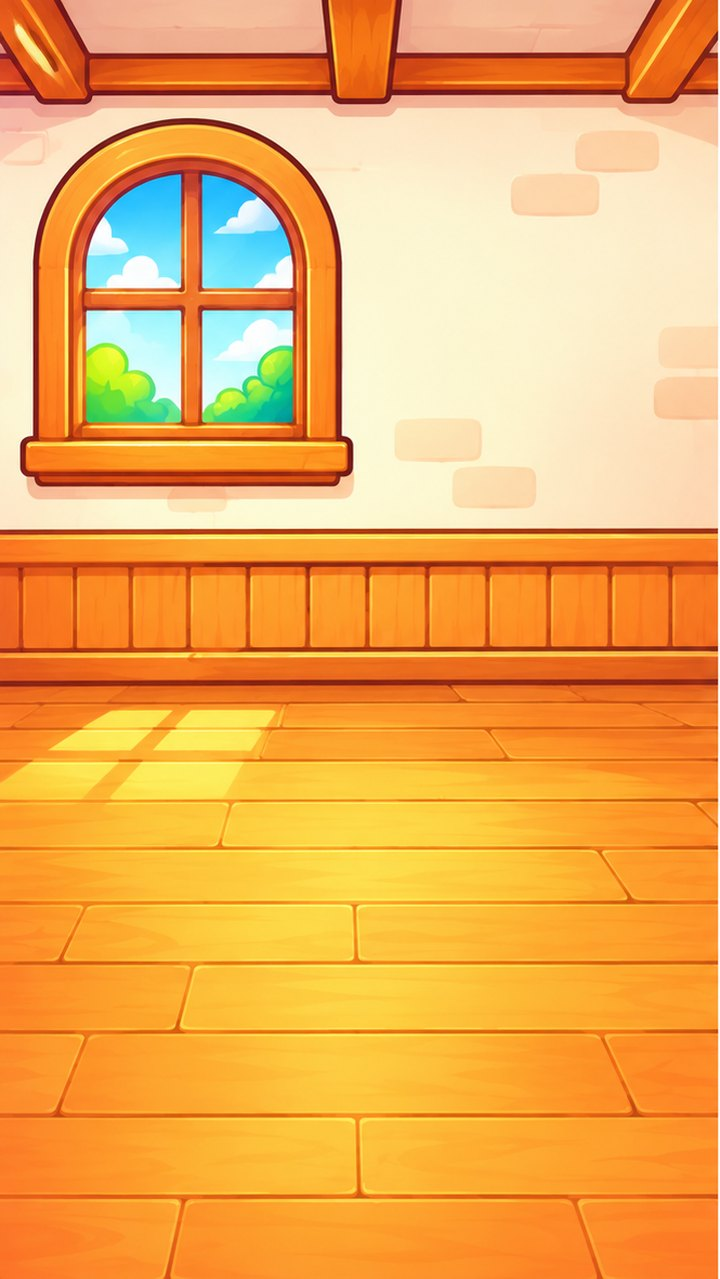
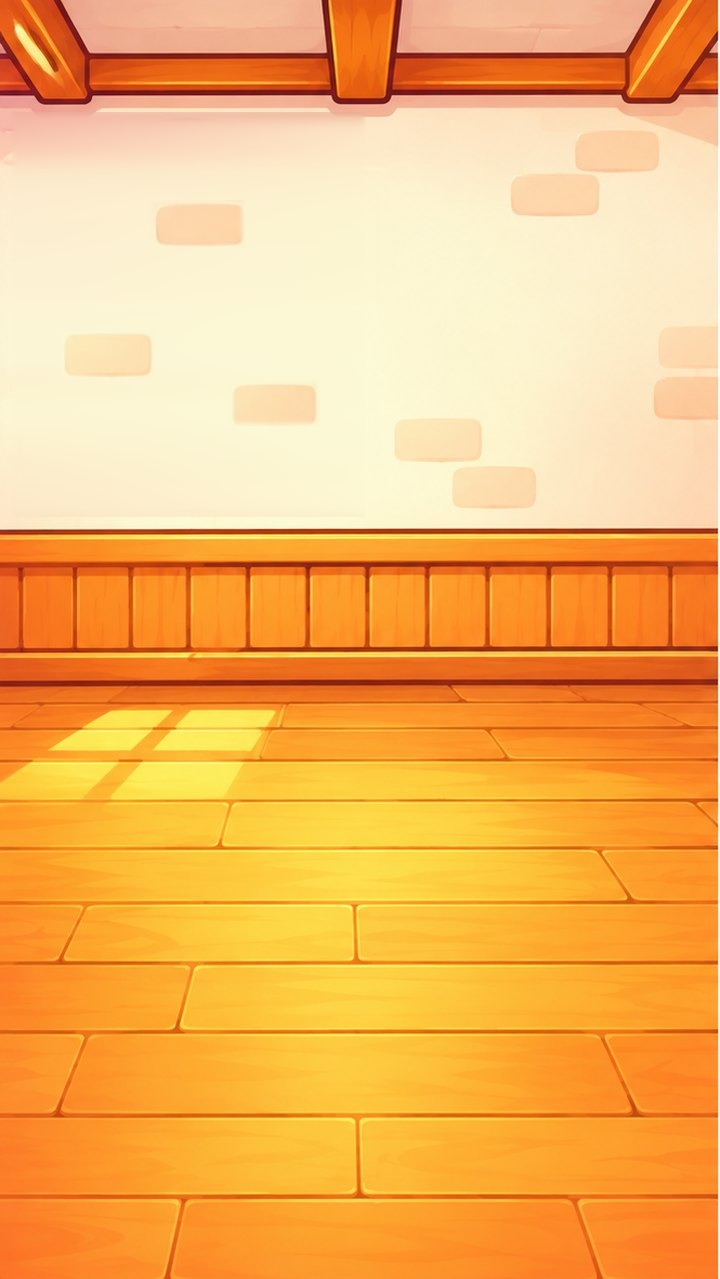
Café: hall background without the painted window; decor placed by kind (wall, ceiling, floor) per variant so lamps hang from the ceiling and furniture stands on the floor; ?reset clears itself from the URL
Claude-Session: https://claude.ai/code/session_0183AWkuzyGnGmi9RjTHJkGU

Changed region(s): [[0.0306, 0.061, 0.4889, 0.3964]]

diff --git a/src/game/cafeLayout.ts b/src/game/cafeLayout.ts
@@ -2,50 +2,48 @@ import { CAFE_SLOTS } from '../core/content';
 
 /**
  * Café screen layout (pure data, no Phaser) so tests can check that tappable things never overlap.
- * Coordinates are in the 720×1280 game space. Room art covers y 160..1120; the floor starts at
- * y≈870 in the hall art and y≈810 in the attic.
+ * Coordinates are in the 720×1280 game space; the room art fills it 1:1. Hall: ceiling beam ends at
+ * y≈100, wall to y≈525, wainscot to y≈690, then floor. Attic: wall triangle under the roof slopes
+ * (apex ≈ 240,115; right slope ≈ y = 115 + 0.74·(x − 240)), baseboard ≈ 630..680, then floor.
  */
 export type Rect = { x: number; y: number; w: number; h: number };
 export type Slot = (typeof CAFE_SLOTS)[number];
+/** floor: art stands on the bottom edge; ceiling: hangs from the top edge; wall: centered */
+export type Anchor = 'floor' | 'ceiling' | 'wall';
+export type Place = Rect & { anchor: Anchor };
 
-/** Where each decor piece is drawn (art is fitted into the rect). */
-export const SLOT_RECT: Record<Slot, Rect>[] = [
-  { // hall: classic front room
-    window: { x: 360, y: 440, w: 280, h: 230 },
-    lamp: { x: 95, y: 745, w: 140, h: 390 },
-    post: { x: 630, y: 790, w: 140, h: 300 },
-    sofa: { x: 245, y: 870, w: 360, h: 200 },
-    counter: { x: 480, y: 935, w: 300, h: 180 },
+const P = (x: number, y: number, w: number, h: number, anchor: Anchor): Place => ({ x, y, w, h, anchor });
+/** box from its bottom edge (things standing on the floor) */
+const onFloor = (x: number, bottom: number, w: number, h: number) => P(x, bottom - h / 2, w, h, 'floor');
+/** box from its top edge (things hanging from the ceiling) */
+const hanging = (x: number, top: number, w: number, h: number) => P(x, top + h / 2, w, h, 'ceiling');
+
+/**
+ * Where each decor piece goes, per room and slot; one entry per variant when variants differ in kind
+ * (a ceiling pendant and a floor lamp cannot share a spot). The art is fitted into the box.
+ */
+export const PLACES: Record<Slot, Place[]>[] = [
+  { // hall
+    window: [P(500, 385, 270, 270, 'wall')],
+    lamp: [hanging(215, 100, 200, 230), onFloor(78, 790, 130, 340), onFloor(78, 790, 130, 200)],
+    post: [onFloor(620, 850, 190, 330)],
+    sofa: [onFloor(310, 900, 330, 230)],
+    counter: [onFloor(520, 1090, 330, 190)],
   },
-  { // attic: dormer on the right, pendant lantern under the beam, wall shelves, armchair, bar
-    window: { x: 500, y: 430, w: 220, h: 230 },
-    lamp: { x: 230, y: 360, w: 100, h: 230 },
-    post: { x: 150, y: 580, w: 170, h: 190 },
-    sofa: { x: 530, y: 860, w: 280, h: 210 },
-    counter: { x: 290, y: 930, w: 340, h: 180 },
+  { // attic
+    window: [P(220, 430, 240, 240, 'wall')],
+    lamp: [hanging(450, 290, 160, 200), hanging(450, 285, 200, 120), hanging(450, 290, 160, 200)],
+    post: [P(630, 520, 150, 200, 'wall')],
+    sofa: [onFloor(230, 900, 320, 230)],
+    counter: [onFloor(520, 1090, 330, 190)],
   },
 ];
 
-/** Pieces that stand on the floor: their art is bottom-aligned to the slot so they never float. */
-export const FLOOR_SLOTS: Slot[][] = [['lamp', 'post', 'sofa', 'counter'], ['sofa', 'counter']];
-
-/** Tap areas of the decor: smaller than the drawn art where pieces overlap, never overlapping each other. */
-export const SLOT_HIT: Record<Slot, Rect>[] = [
-  {
-    window: { x: 360, y: 440, w: 280, h: 230 },
-    lamp: { x: 85, y: 660, w: 120, h: 200 }, // shade and upper pole, above the sofa
-    post: { x: 640, y: 800, w: 120, h: 280 },
-    sofa: { x: 240, y: 875, w: 340, h: 190 },
-    counter: { x: 495, y: 935, w: 130, h: 180 }, // front of the counter, right of the sofa
-  },
-  {
-    window: { x: 500, y: 430, w: 220, h: 230 },
-    lamp: { x: 230, y: 360, w: 100, h: 230 },
-    post: { x: 150, y: 580, w: 170, h: 190 },
-    sofa: { x: 540, y: 870, w: 260, h: 190 },
-    counter: { x: 250, y: 930, w: 260, h: 180 },
-  },
-];
+/** Placement of a slot's variant (an empty slot uses the first spot). */
+export function placeOf(room: number, slot: Slot, variant: number): Place {
+  const list = PLACES[room][slot];
+  return list[Math.min(Math.max(variant, 0), list.length - 1)];
+}
 
 const btn = (x: number, y: number, w: number, h: number): Rect => ({ x, y, w, h });
 
@@ -58,7 +56,7 @@ export const CAFE_UI = {
   nextRoom: btn(720 - 96, 215, 168, 64),
   tips: btn(130, 1065, 210, 70),
   taskPanel: btn(360, 1190, 680, 136),
-  visitor: btn(440, 710, 160, 120),
+  visitor: btn(250, 975, 140, 110),
 };
 
 export const overlaps = (a: Rect, b: Rect) =>

diff --git a/src/game/CafeScene.ts b/src/game/CafeScene.ts
@@ -12,7 +12,7 @@ import { rewarded, rewardedReady } from './ads';
 import { addFish, grantPaws, persist, platform, save, unlockBreed } from './state';
 import { button, C, dialog, modal, pill, toast, txt, W, backButton, panel } from './ui';
 
-import { CAFE_UI, FLOOR_SLOTS, type Rect, SLOT_HIT, SLOT_RECT } from './cafeLayout';
+import { CAFE_UI, type Rect, placeOf } from './cafeLayout';
 
 const WALL = [0xf6dfc6, 0xe9e0ef]; // hall: peach, attic: dusty lavender (art bible color script)
 const FLOOR = [0xe3c49f, 0xd8b98e]; // hall: honey wood, attic: pine
@@ -73,16 +73,16 @@ export class CafeScene extends Phaser.Scene {
 
     const task = nextTask(save.tasksDone);
     CAFE_SLOTS.forEach((key, i) => {
-      const rect = SLOT_RECT[r][key];
       const v = save.cafe[r][i];
+      const rect = placeOf(r, key, v);
       if (v >= 0) {
-        const im = art(this, `decor_r${r + 1}_${key}_${v}`, rect.x, rect.y, rect.w * 1.15, rect.h * 1.15);
+        const im = art(this, `decor_r${r + 1}_${key}_${v}`, rect.x, rect.y, rect.w, rect.h);
         if (im && i === this.upgraded) this.celebrate(im);
-        if (im && FLOOR_SLOTS[r].includes(key)) {
+        if (im && rect.anchor === 'floor') {
           im.setOrigin(0.5, 1).setY(rect.y + rect.h / 2);
           this.add.ellipse(rect.x, rect.y + rect.h / 2 - 4, im.displayWidth * 0.8, 18, C.inkN, 0.12);
           this.children.bringToTop(im);
-        }
+        } else if (im && rect.anchor === 'ceiling') im.setOrigin(0.5, 0).setY(rect.y - rect.h / 2);
         if (!im) {
           this.drawItem(this.add.graphics(), key, rect, CAFE_VARIANTS[r][v], r);
         }
@@ -90,7 +90,7 @@ export class CafeScene extends Phaser.Scene {
         const top = im ? im.y - im.displayHeight * im.originY : rect.y - rect.h / 2;
         const right = im ? im.x + im.displayWidth * 0.4 : rect.x + rect.w / 2 - 6;
         txt(this, right, top + 14, TAG_ICON[tagOf(i, v)], 26);
-        const hr = SLOT_HIT[r][key];
+        const hr = rect;
         const hit = this.add.zone(hr.x, hr.y, hr.w, hr.h).setInteractive({ useHandCursor: true });
         hit.on('pointerdown', () => this.pickVariant(i));
         // renovation task on a placed piece: it gently pulses until upgraded
@@ -114,7 +114,7 @@ export class CafeScene extends Phaser.Scene {
         }
         ph.add([pg, txt(this, 0, 0, '+', 56, '#ff9e5e').setStroke(C.ink, 6)]);
         this.tweens.add({ targets: ph, scale: 1.05, duration: 700, yoyo: true, repeat: -1, ease: 'Sine.InOut' });
-        const hz = SLOT_HIT[r][key];
+        const hz = rect;
         const hit = this.add.zone(hz.x, hz.y, hz.w, hz.h).setInteractive({ useHandCursor: true });
         hit.on('pointerdown', () => this.perform());
       }
@@ -293,8 +293,9 @@ export class CafeScene extends Phaser.Scene {
     const b = save.visit.visitor;
     if (b < 0) return;
     const vis = VISITORS.find((v) => v.breed === b)!;
-    sittingCat(this, b, 440, 720, 120);
-    const bell = txt(this, 470, 660, '🔔', 40);
+    const vz0 = CAFE_UI.visitor;
+    sittingCat(this, b, vz0.x, vz0.y, 120);
+    const bell = txt(this, vz0.x + 30, vz0.y - 60, '🔔', 40);
     this.tweens.add({ targets: bell, angle: 15, duration: 300, yoyo: true, repeat: -1 });
     const vz = CAFE_UI.visitor;
     const zone = this.add.zone(vz.x, vz.y, vz.w, vz.h).setInteractive({ useHandCursor: true });

diff --git a/tests/layout.test.ts b/tests/layout.test.ts
@@ -1,24 +1,27 @@
 import { describe, expect, it } from 'vitest';
 import { CAFE_SLOTS } from '../src/core/content';
-import { CAFE_UI, overlaps, SLOT_HIT } from '../src/game/cafeLayout';
+import { CAFE_UI, overlaps, PLACES } from '../src/game/cafeLayout';
 
-/** Tappable areas must never overlap: a tap on one control must not trigger another. */
+/** Every variant combination: tap areas never overlap, never hit screen controls, stay in the picture. */
 describe('café layout', () => {
   const ui = Object.entries(CAFE_UI);
-  SLOT_HIT.forEach((room, r) => {
-    it(`room ${r + 1}: decor tap areas do not overlap each other`, () => {
-      for (let i = 0; i < CAFE_SLOTS.length; i++)
-        for (let j = i + 1; j < CAFE_SLOTS.length; j++)
-          expect(overlaps(room[CAFE_SLOTS[i]], room[CAFE_SLOTS[j]]), `${CAFE_SLOTS[i]} × ${CAFE_SLOTS[j]}`).toBe(false);
+  PLACES.forEach((room, r) => {
+    const all = CAFE_SLOTS.flatMap((s) => room[s].map((p, v) => ({ s, v, p })));
+    it(`room ${r + 1}: pieces of different slots never overlap`, () => {
+      for (const a of all) for (const b of all)
+        if (a.s < b.s) expect(overlaps(a.p, b.p), `${a.s}${a.v} × ${b.s}${b.v}`).toBe(false);
     });
-    it(`room ${r + 1}: decor tap areas do not overlap screen controls`, () => {
-      for (const s of CAFE_SLOTS)
-        for (const [name, rect] of ui) expect(overlaps(room[s], rect), `${s} × ${name}`).toBe(false);
+    it(`room ${r + 1}: pieces do not overlap screen controls`, () => {
+      // the first room has no "previous room" pill
+      for (const a of all) for (const [name, rect] of ui)
+        if (!(r === 0 && name === 'prevRoom')) expect(overlaps(a.p, rect), `${a.s}${a.v} × ${name}`).toBe(false);
     });
-    it(`room ${r + 1}: tap areas stay inside the room picture`, () => {
-      for (const s of CAFE_SLOTS) {
-        const h = room[s];
-        expect(h.x - h.w / 2 >= 0 && h.x + h.w / 2 <= 720 && h.y - h.h / 2 >= 160 && h.y + h.h / 2 <= 1120, s).toBe(true);
+    it(`room ${r + 1}: pieces stay inside the room, windows on the wall, floor pieces on the floor`, () => {
+      for (const { s, v, p } of all) {
+        expect(p.x - p.w / 2 >= 0 && p.x + p.w / 2 <= 720 && p.y - p.h / 2 >= 100 && p.y + p.h / 2 <= 1120, `${s}${v}`).toBe(true);
+        if (s === 'window') expect(p.y + p.h / 2, 'window above the wainscot/baseboard').toBeLessThanOrEqual(r ? 630 : 525);
+        if (p.anchor === 'floor') expect(p.y + p.h / 2, `${s}${v} stands on the floor`).toBeGreaterThanOrEqual(r ? 680 : 690);
+        if (p.anchor === 'ceiling') expect(p.y + p.h / 2, `${s}${v} hangs above the floor`).toBeLessThan(r ? 630 : 525);
       }
     });
   });

diff --git a/src/game/state.ts b/src/game/state.ts
@@ -17,7 +17,12 @@ export async function initState() {
   platform.onMute(setForcedMute);
   await platform.init();
   const q = new URLSearchParams(location.search);
-  if (q.has('reset')) clearLocalSave();
+  if (q.has('reset')) {
+    clearLocalSave();
+    // drop the flag so a later reload keeps the new progress
+    q.delete('reset');
+    history.replaceState(null, '', location.pathname + (q.size ? '?' + q : '') + location.hash);
+  }
   save = migrate(await platform.load());
   // dev helpers: ?level=37 jumps, ?fish=999 adds fish, ?lang=en
   if (q.get('level')) save.level = Math.max(1, Number(q.get('level')) || 1);
